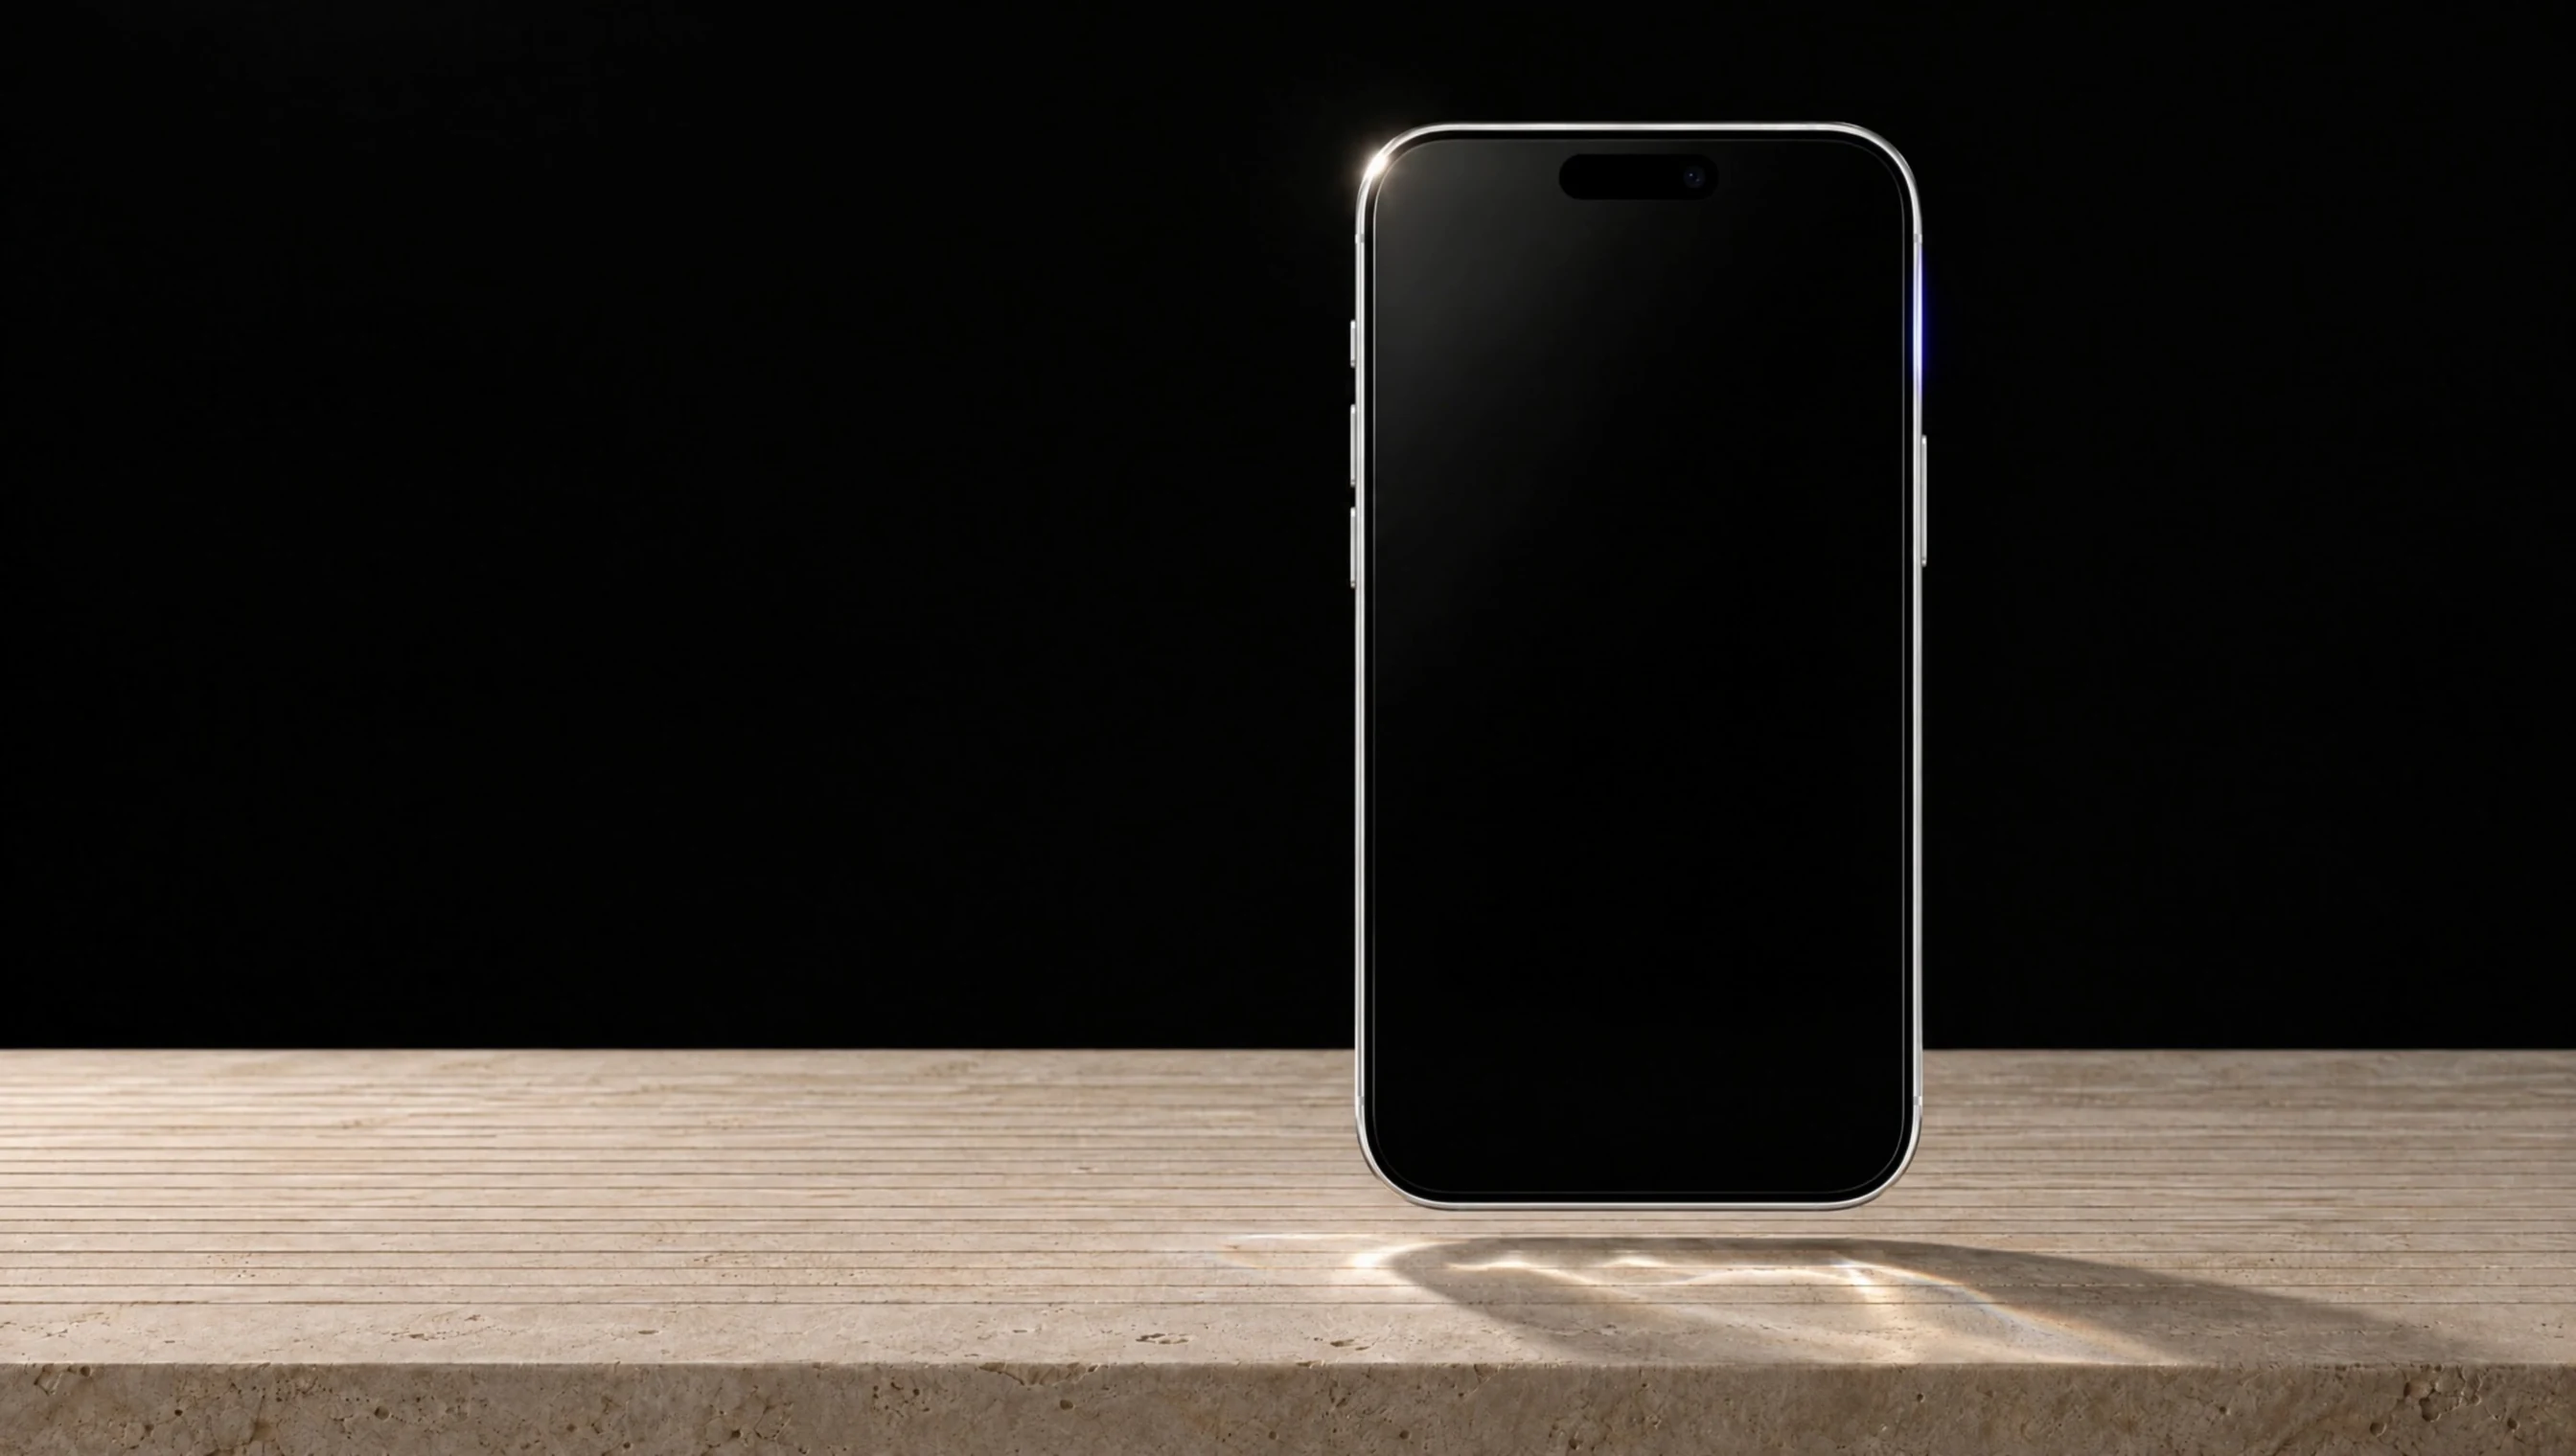
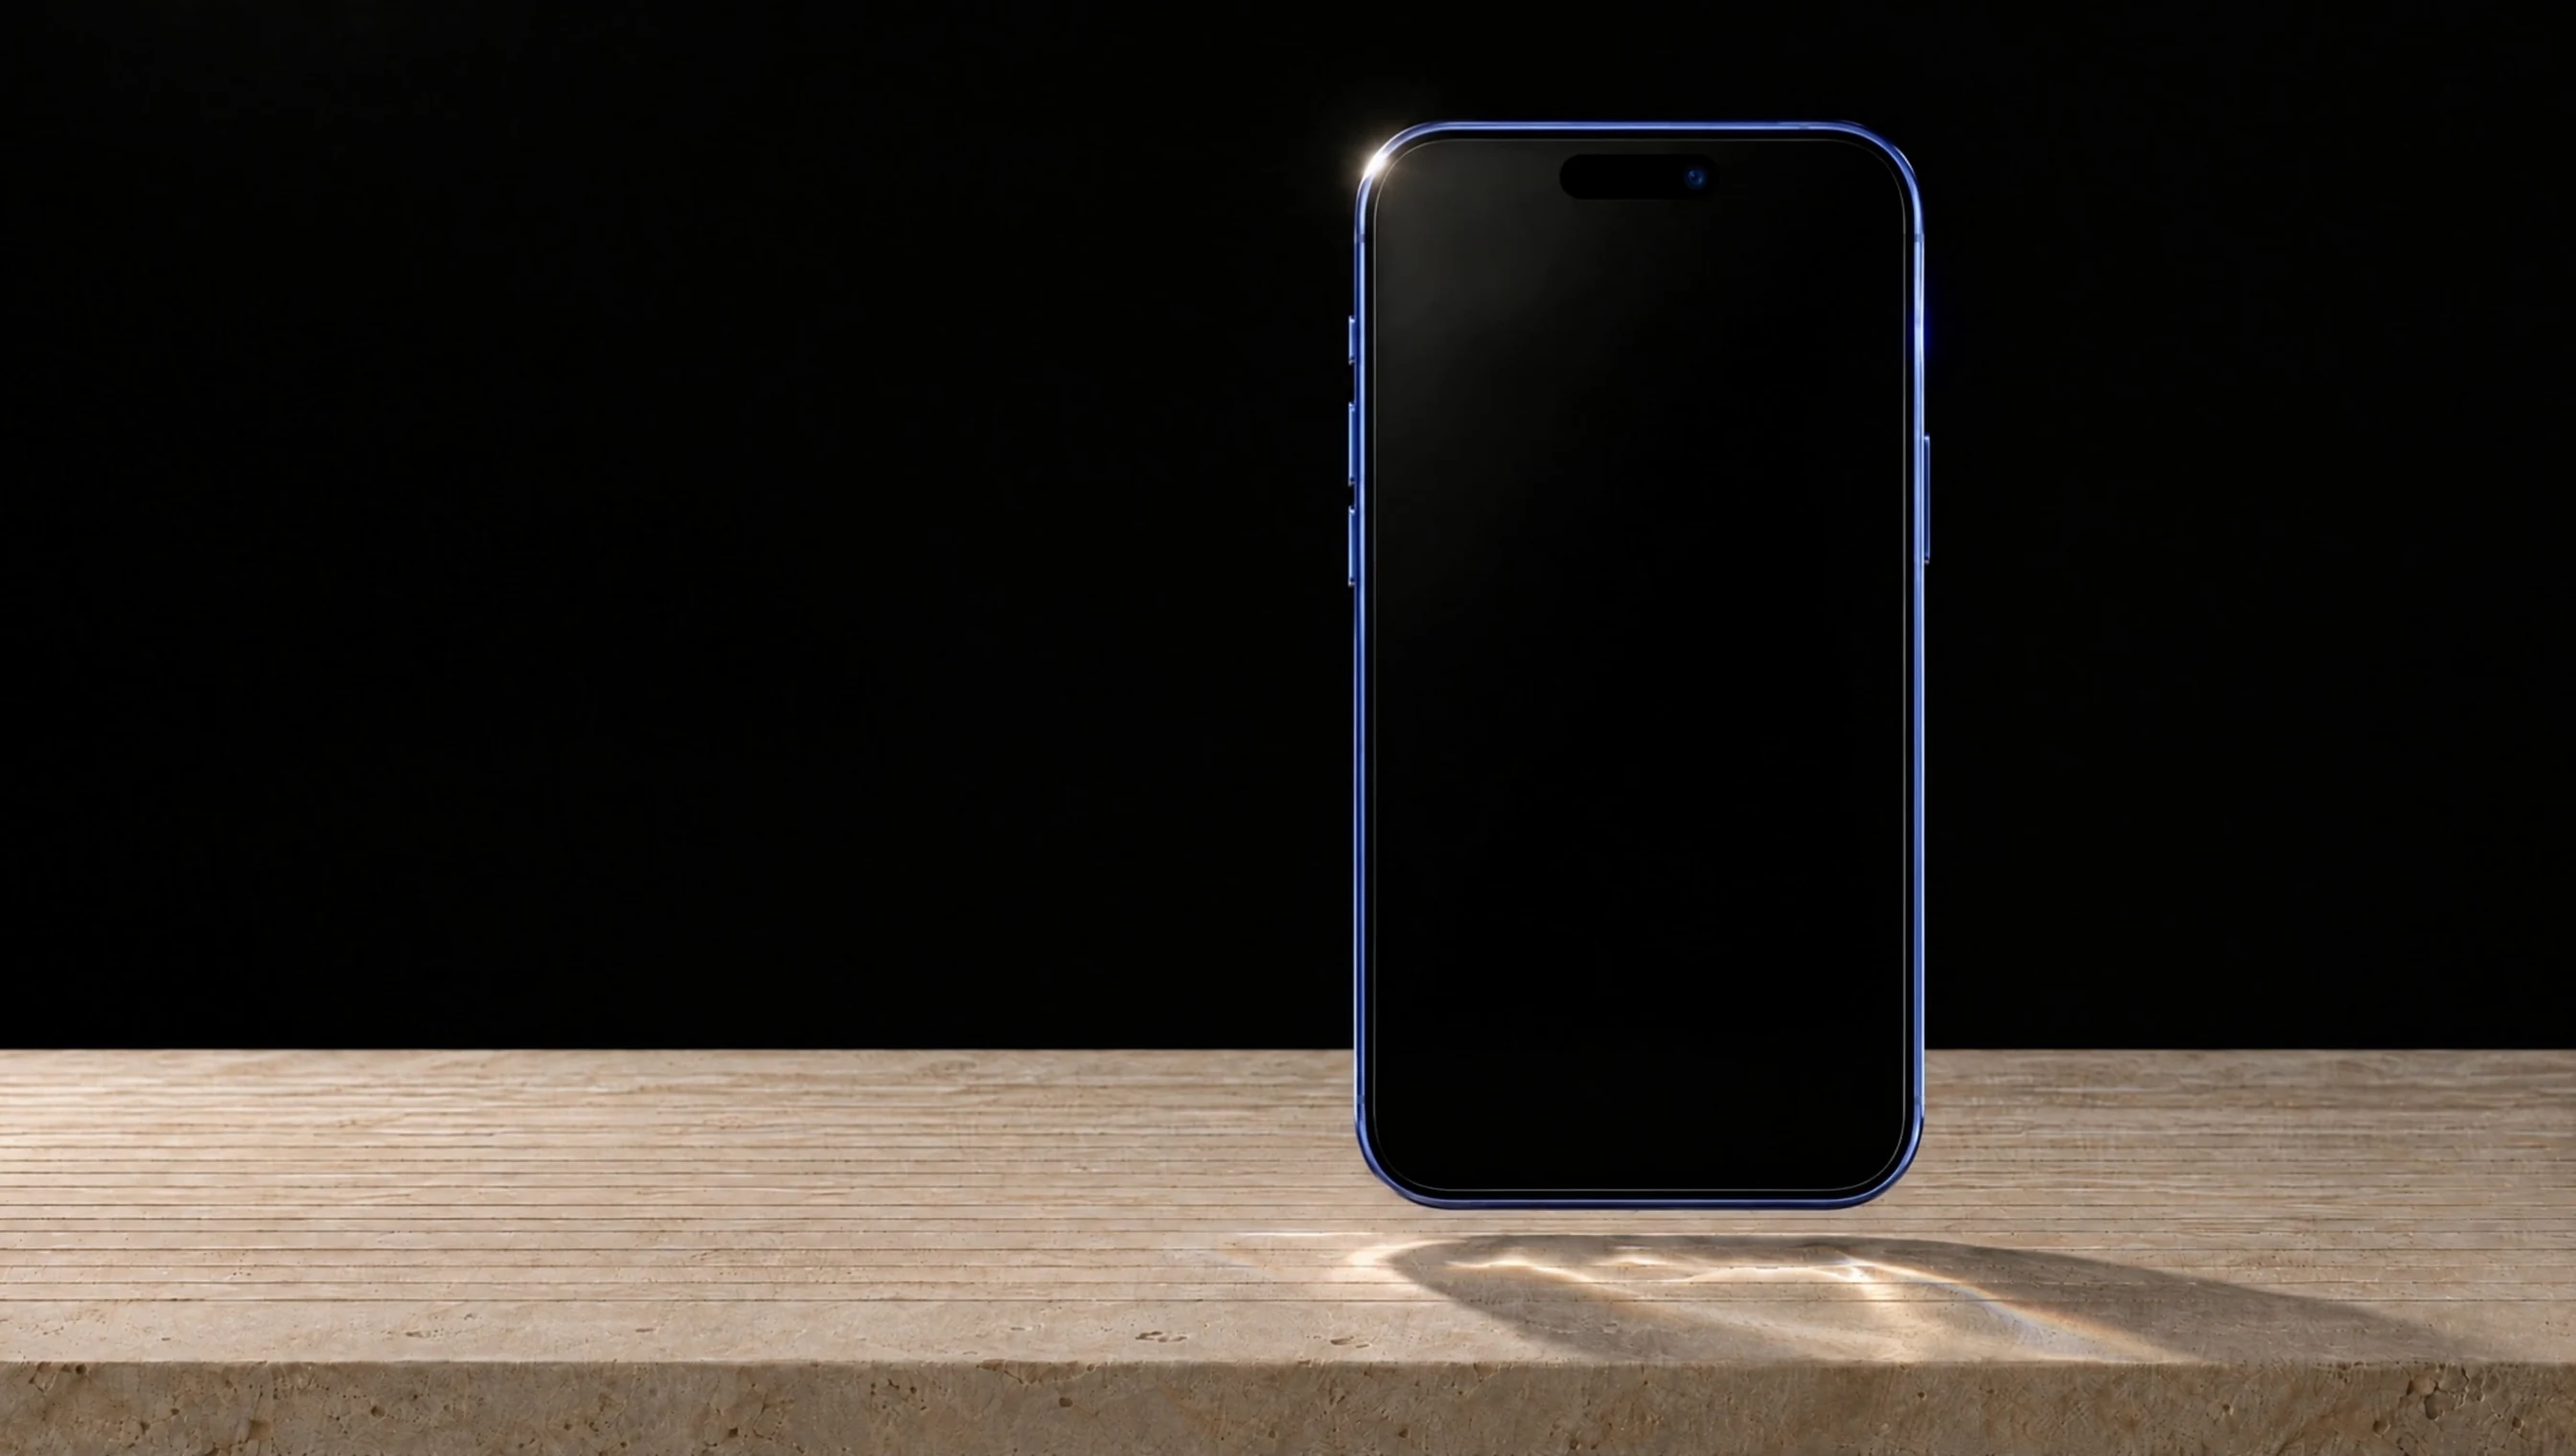
Intro: skærmmål fra den nye iPhone 17 Pro-film
Claude-Session: https://claude.ai/code/session_019Xgq6nyUB8EVWQAq5k8fum

diff --git a/ny/intro.js b/ny/intro.js
@@ -63,8 +63,10 @@ const SCENES = {
     glass: 'media/glas-d-end.webp', end: 'media/phone-d-end.webp',
     slab: { l: 0.522, r: 0.75, t: 0.082, b: 0.828 },
     glint: [0.749, 0.214],
-    screen: { l: 0.5339, r: 0.7392, t: 0.0967, b: 0.8191, rad: 0.114 },
-    island: { cx: 0.498, t: 0.012, w: 0.29, h: 0.04 },
+    // measured off the film's last frame: the iPhone 17 Pro's Deep Blue frame,
+    // and the screen inside it in Callster's render's own proportions
+    screen: { l: 0.5326, r: 0.7381, t: 0.0967, b: 0.8134, rad: 0.13 },
+    island: { cx: 0.5, t: 0.0126, w: 0.313, h: 0.042 },
   },
   port: {
     w: 1520, h: 2688, seq: 'media/seq-m/', film: 'media/film-m', nA: 65, n: 106,
